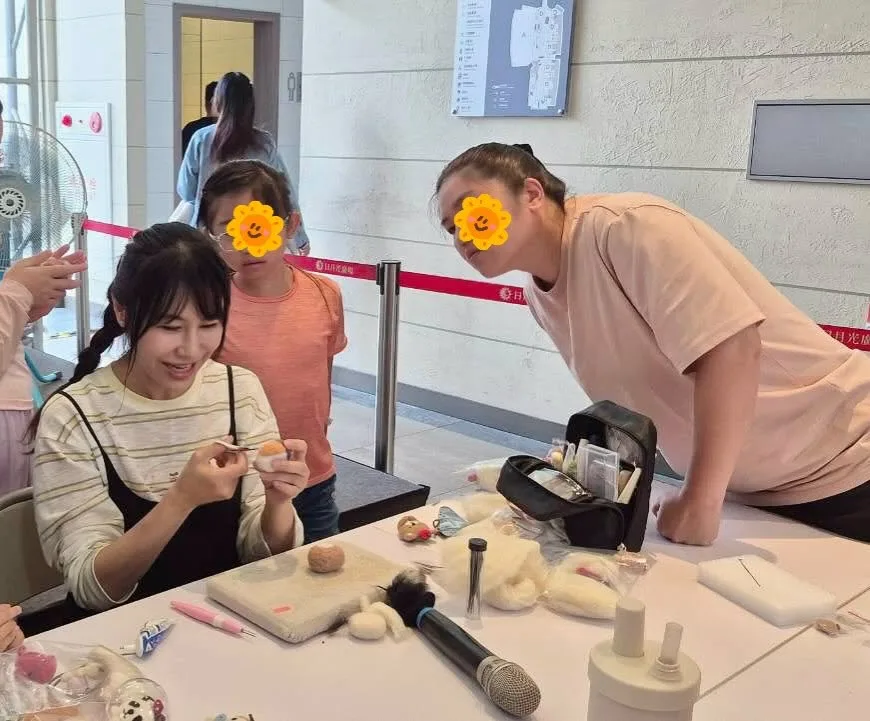
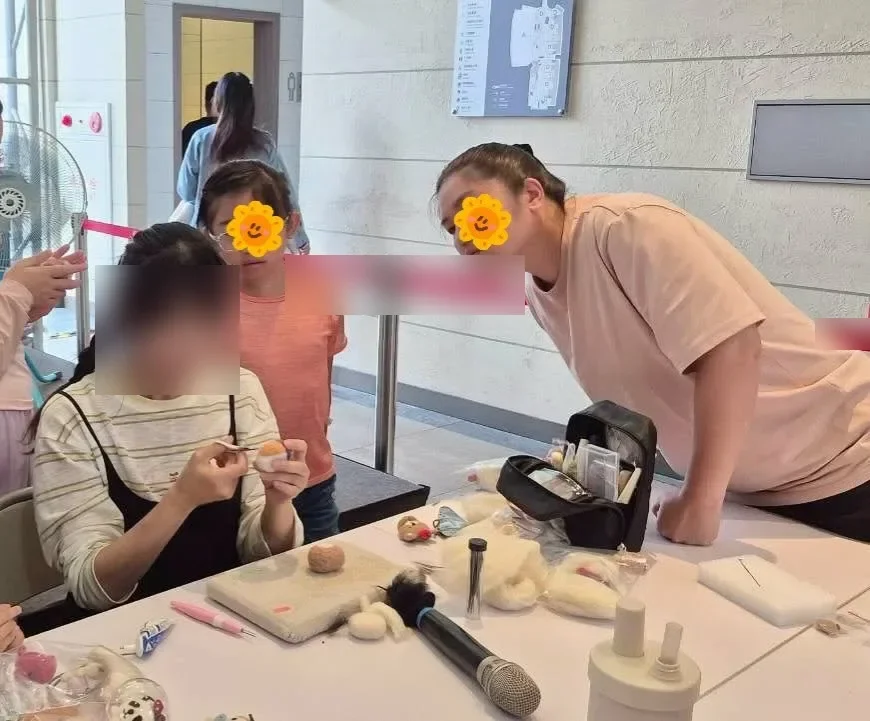
關於 Vivi 加商品與客製按鈕、活動照片隱私處理

Changed region(s): [[0.3103, 0.3356, 0.6207, 0.4577], [0.0931, 0.3662, 0.2793, 0.5492], [0.931, 0.4272, 1.0, 0.4882]]

diff --git a/about.html b/about.html
@@ -110,7 +110,9 @@
   <div class="container">
     <p class="about-quote fade-up">歡迎你來玩。<br>不用做得完美，每一件手作，都有它自己的表情。</p>
     <div class="fade-up" style="display:flex;gap:14px;justify-content:center;flex-wrap:wrap;margin-top:32px;">
-      <a href="/contact" class="btn btn-primary">聯絡 Vivi</a>
+      <a href="/#shop" class="btn btn-primary">逛逛手作商品</a>
+      <a href="/custom-order" class="btn btn-primary">我想客製訂製</a>
+      <a href="/contact" class="btn btn-secondary">聯絡 Vivi</a>
       <a href="https://www.instagram.com/eaea_1282025/" target="_blank" rel="noopener" class="btn btn-secondary">Instagram</a>
     </div>
   </div>
